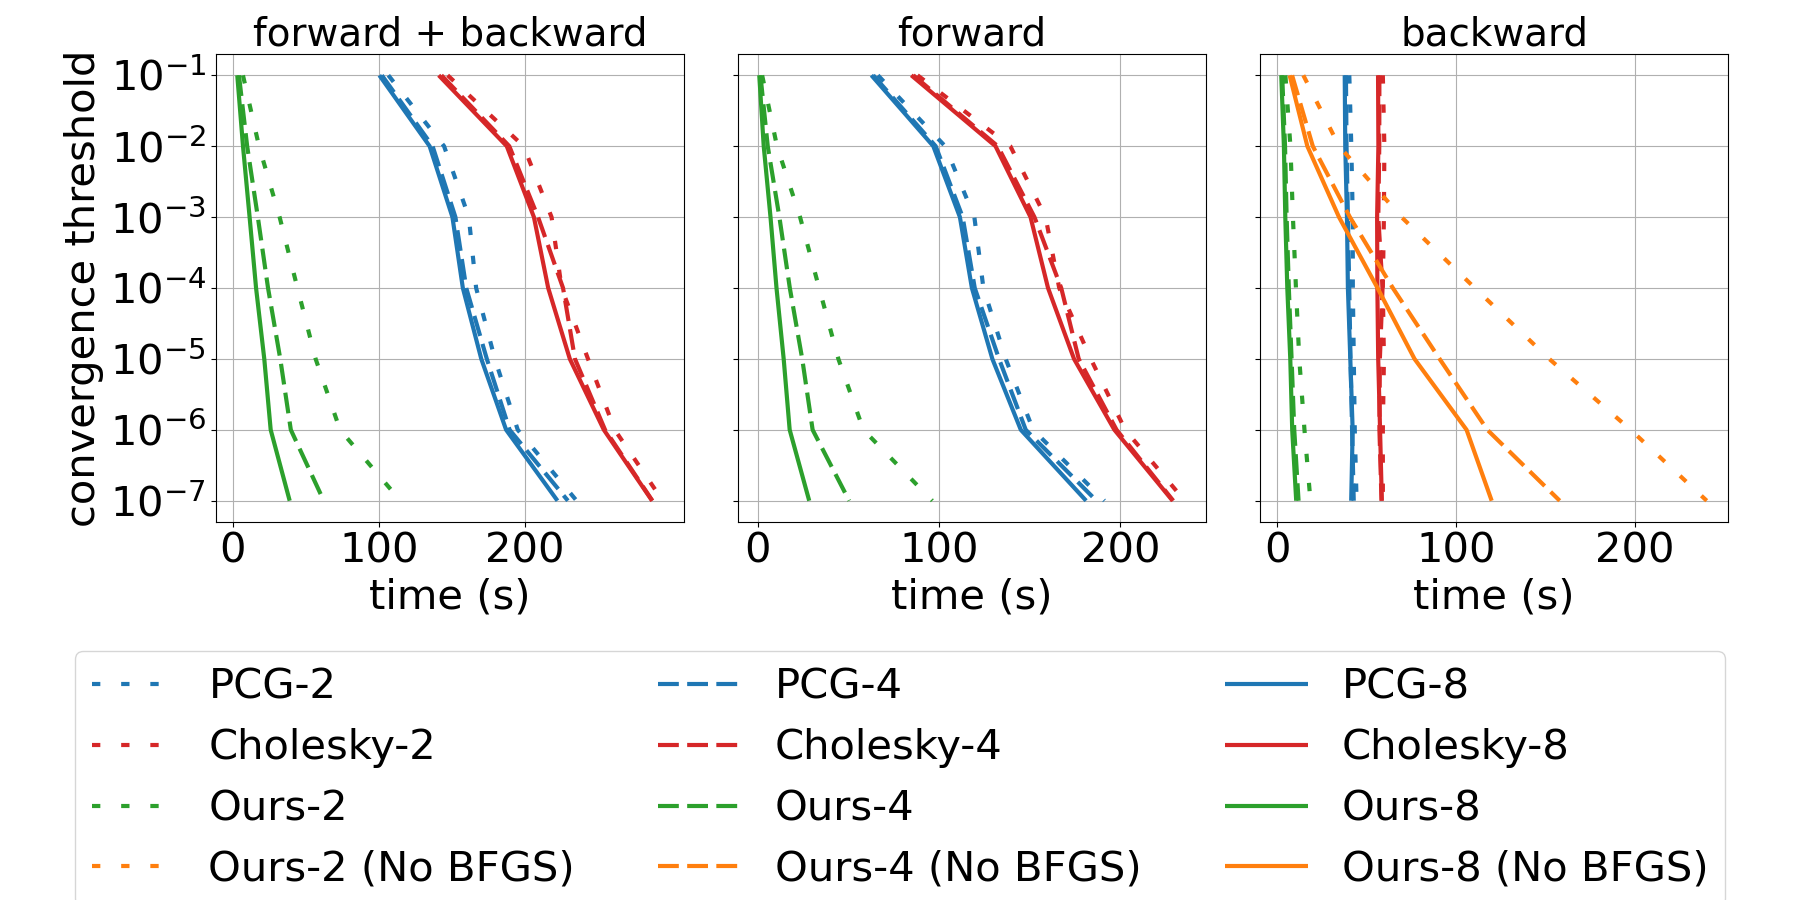
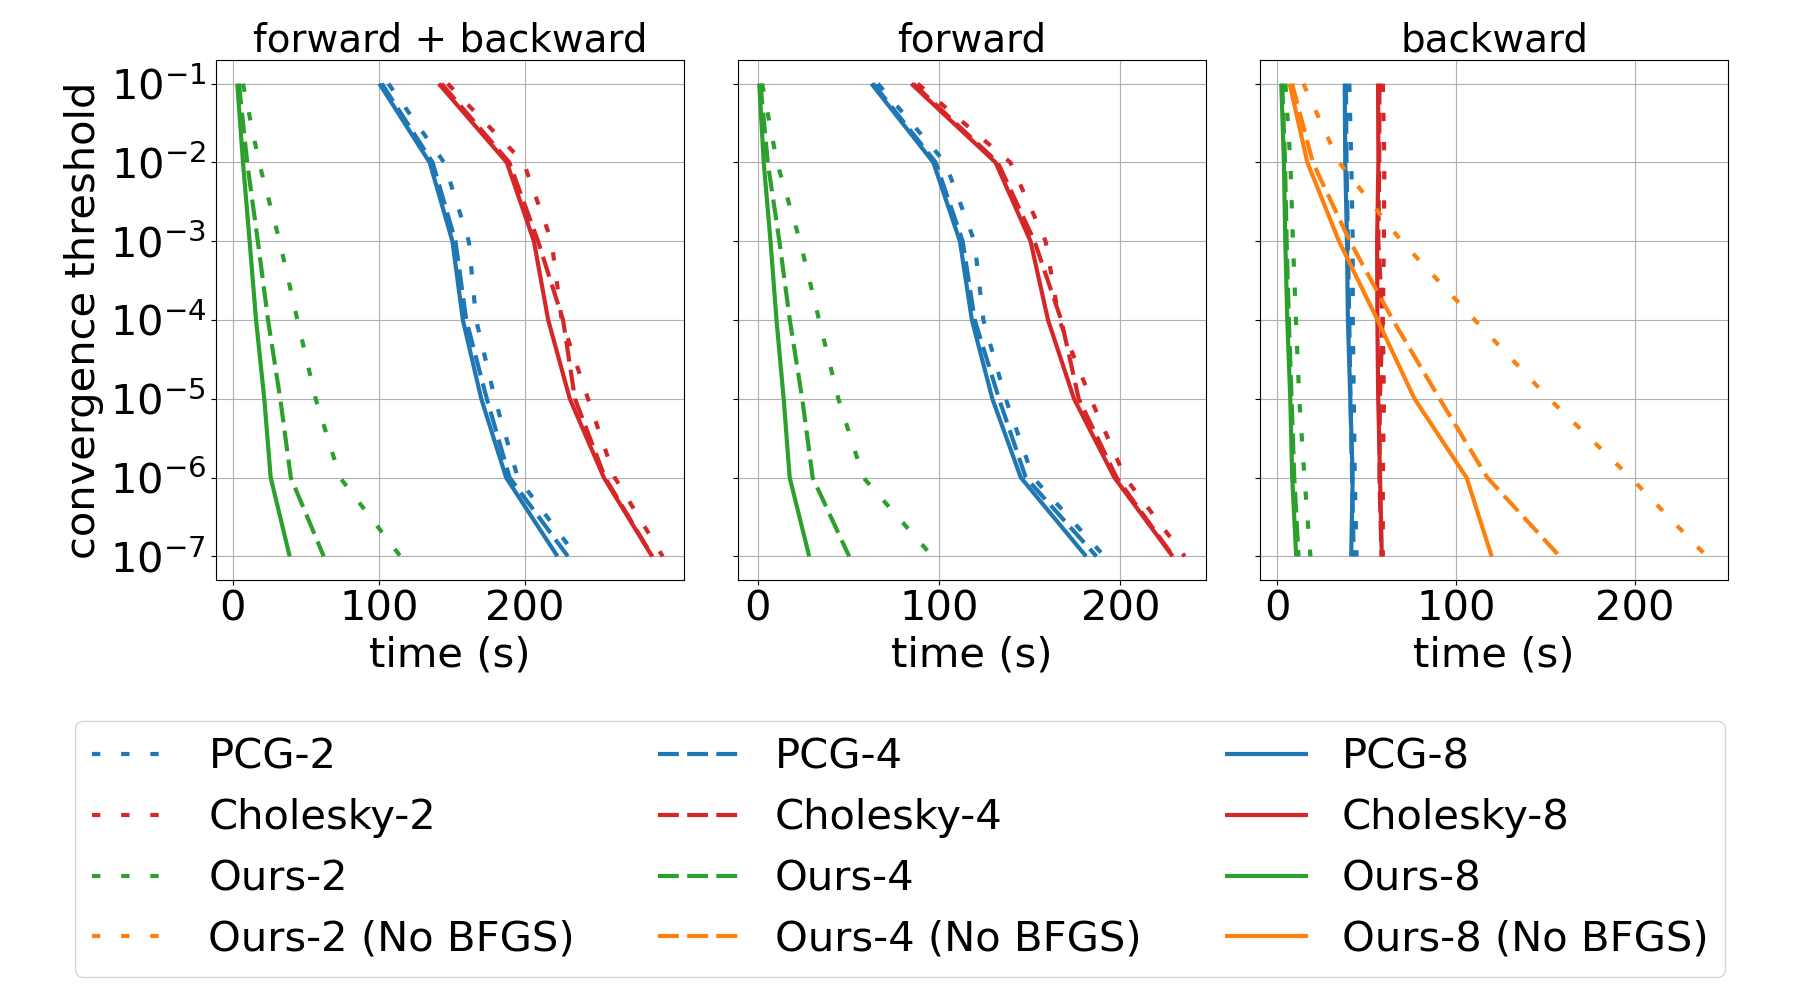
Fine-tune figures. [skip ci]

diff --git a/python/example/print_benchmark_3d_table.py b/python/example/print_benchmark_3d_table.py
@@ -73,7 +73,7 @@ if __name__ == '__main__':
                 '|grad|': np.linalg.norm(grads[method][idx]) }))
 
 
-    fig = plt.figure(figsize=(18, 9))
+    fig = plt.figure(figsize=(18, 10))
     ax_fb = fig.add_subplot(131)
     ax_f = fig.add_subplot(132)
     ax_b = fig.add_subplot(133)

diff --git a/python/example/print_rolling_jelly_3d_table.py b/python/example/print_rolling_jelly_3d_table.py
@@ -73,7 +73,7 @@ if __name__ == '__main__':
                 '|grad|': np.linalg.norm(grads[method][idx]) }))
 
 
-    fig = plt.figure(figsize=(18, 9))
+    fig = plt.figure(figsize=(18, 10))
     ax_fb = fig.add_subplot(131)
     ax_f = fig.add_subplot(132)
     ax_b = fig.add_subplot(133)
